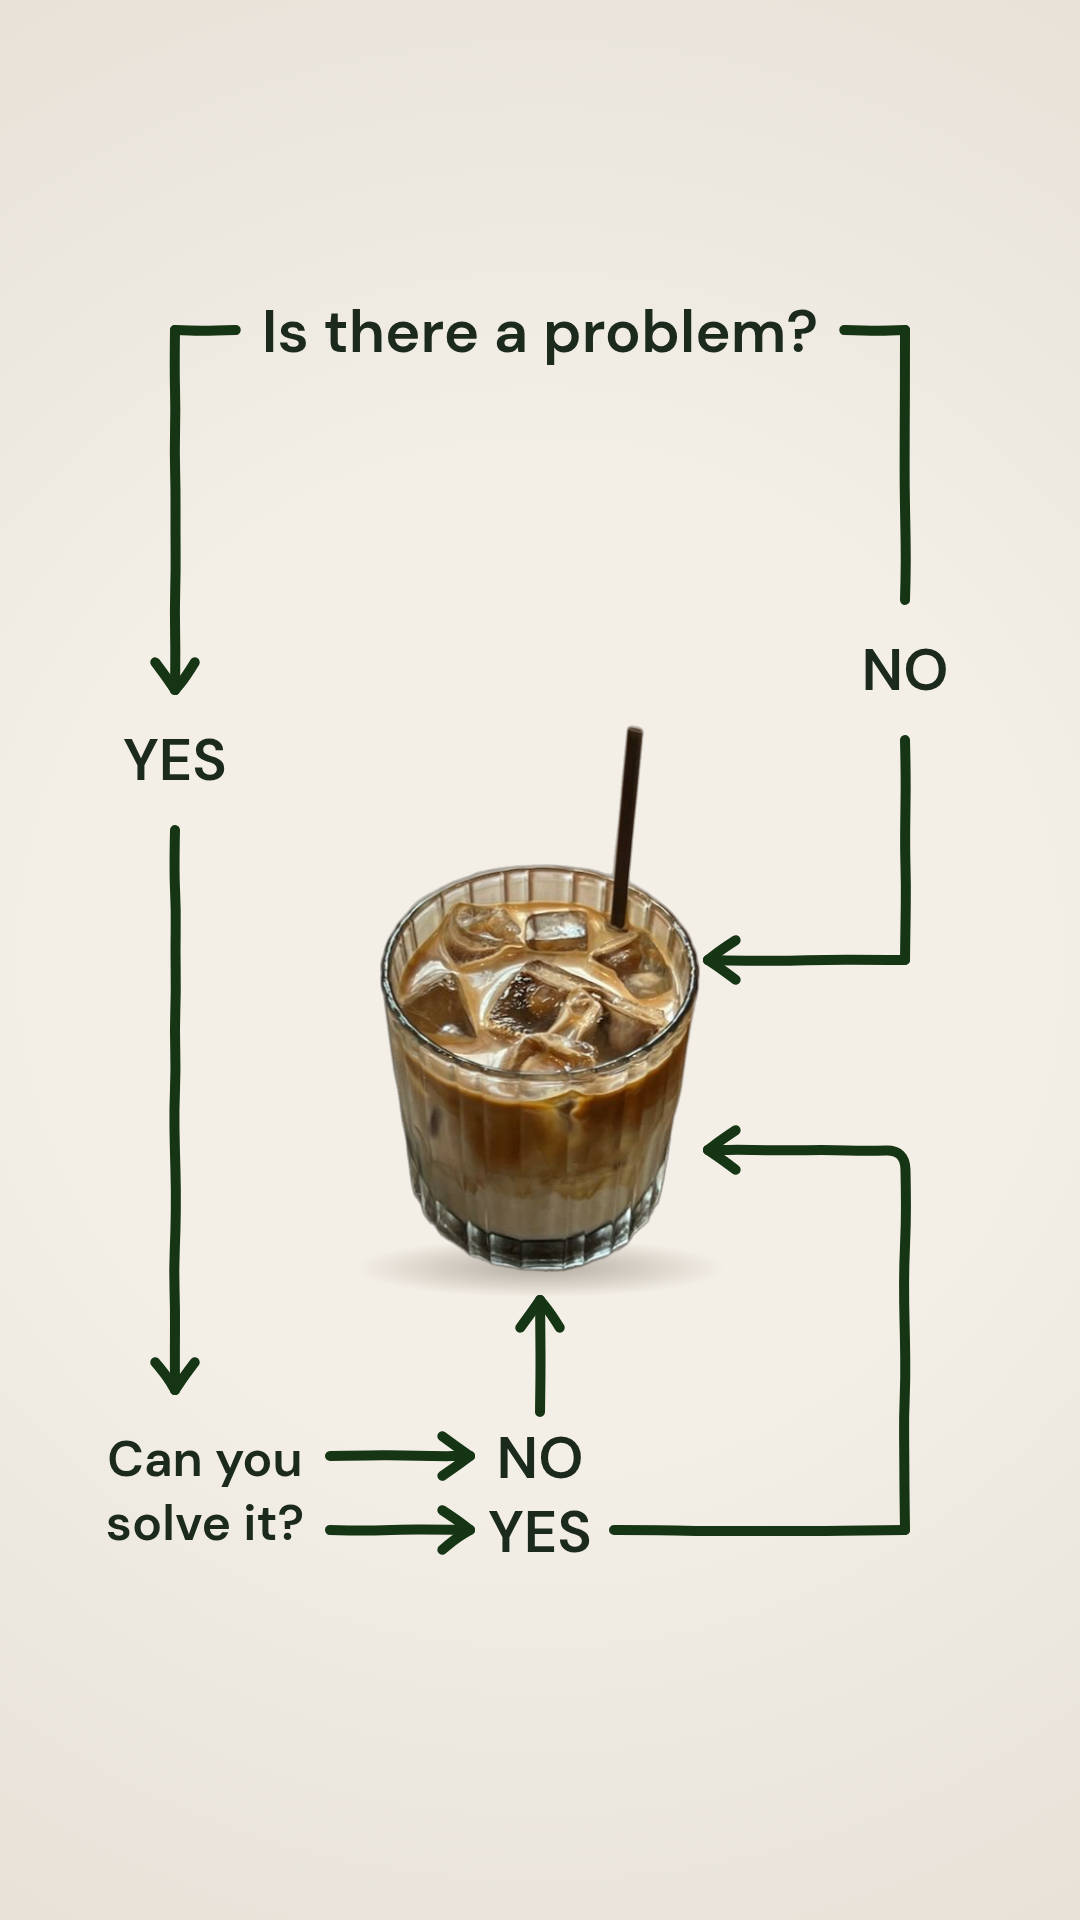
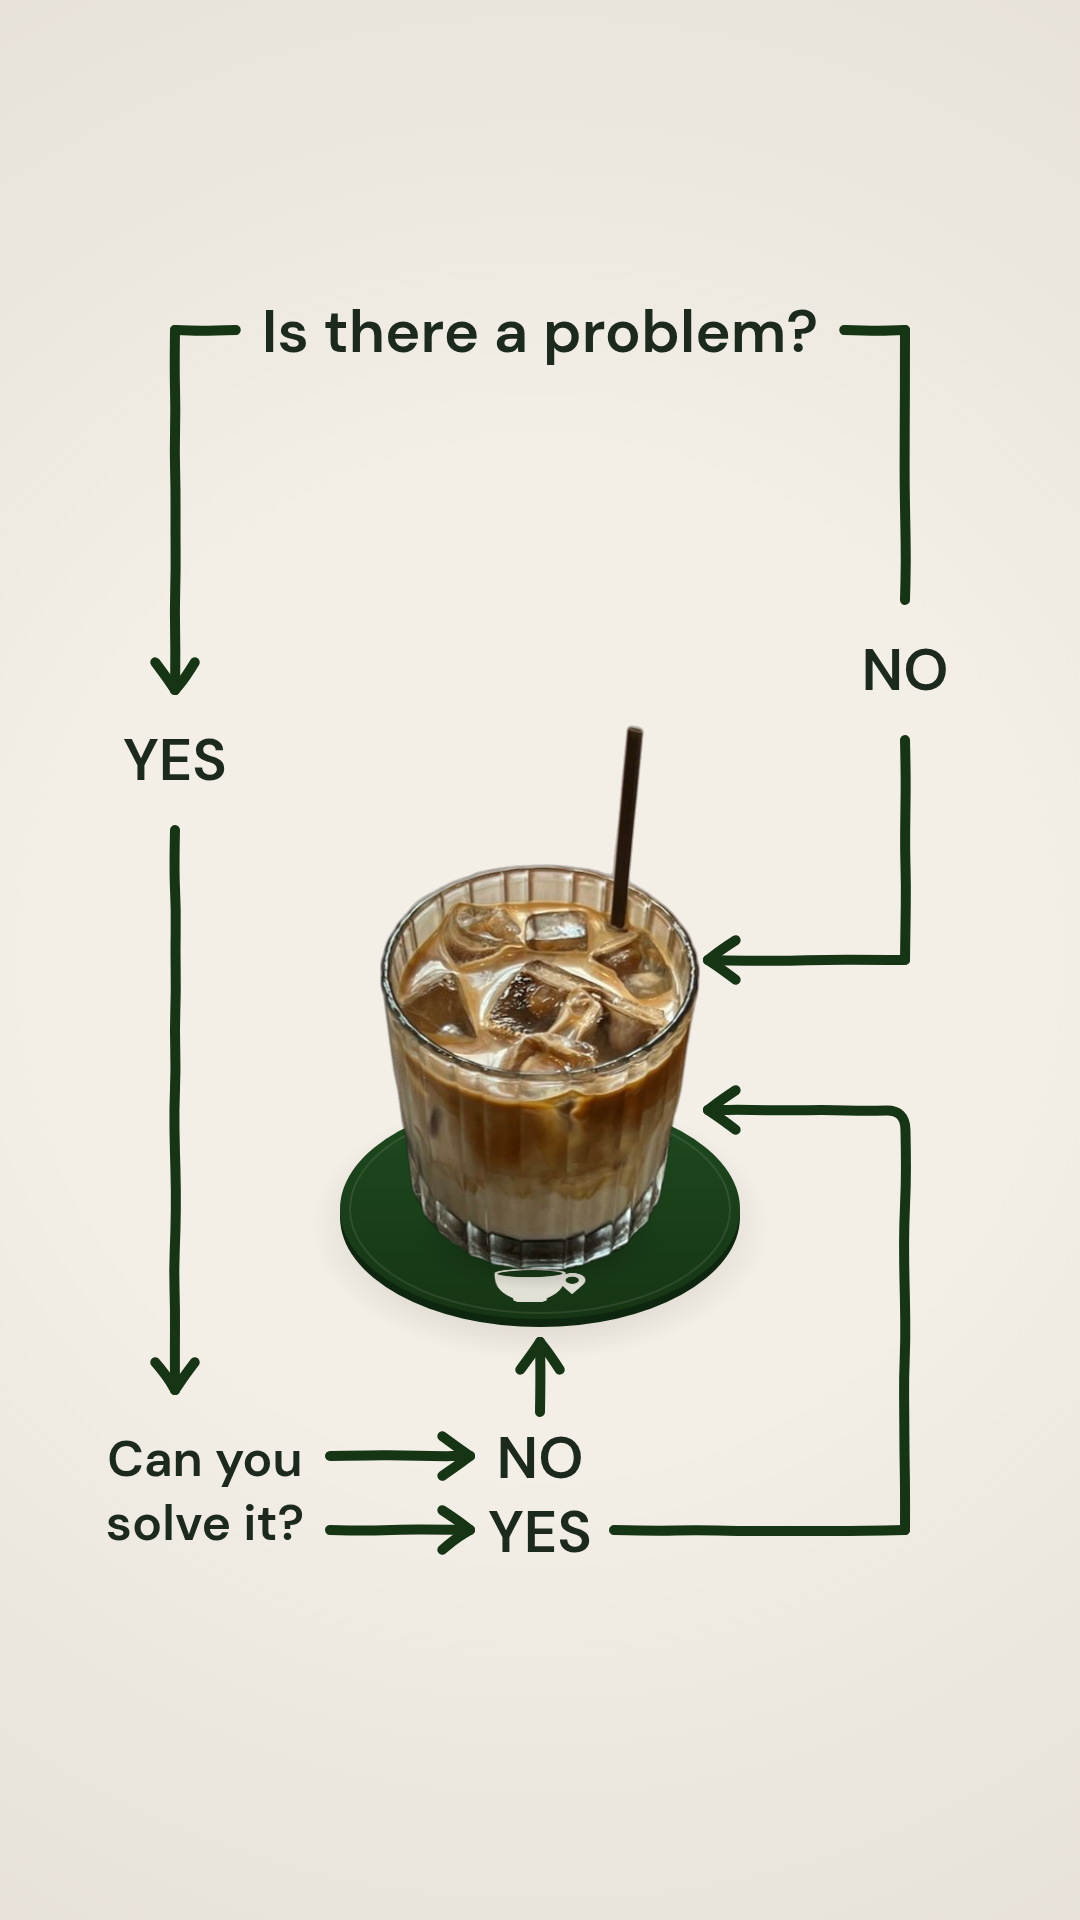
Flowchart story: BrewMaps coaster under the glass (Arabic and English)
Claude-Session: https://claude.ai/code/session_01UCKVHF8Bj15Neb29ir5cAN

Changed region(s): [[0.3056, 0.5625, 0.8556, 0.7188]]

diff --git a/marketing/posts/coffee-flowchart-story/story.html b/marketing/posts/coffee-flowchart-story/story.html
@@ -11,7 +11,7 @@ const img = s => new Promise(r => { const i = new Image(); i.onload = () => r(i)
 let seed = 7; const rnd = () => (seed = (seed * 16807) % 2147483647) / 2147483647;
 window.ready = (async () => {
   await Promise.all([document.fonts.load('700 62px "Tajawal"', 'عندك مشكلة'), document.fonts.load('700 64px "Tajawal"', 'إيه لا'), document.fonts.load('700 74px "Tajawal"', 'عندك مشكلة؟')]);
-  const cup = await img('img/glass-cutout.png'), logo = await img('../../assets/logos/logo-green.png');
+  const mark = await img('../../assets/logos/mark-cream.png'), cup = await img('img/glass-cutout.png'), logo = await img('../../assets/logos/logo-green.png');
   const c = document.getElementById('c').getContext('2d');
   c.fillStyle = BG; c.fillRect(0, 0, 1080, 1920);
   const v = c.createRadialGradient(540, 960, 500, 540, 960, 1250); v.addColorStop(0, 'rgba(0,0,0,0)'); v.addColorStop(1, 'rgba(60,45,20,0.08)');
@@ -42,14 +42,25 @@ window.ready = (async () => {
   hand([[175, 740], [175, 960]]); arrow([[175, 960], [372, 960]]);
   // the coffee, centred
   const cw = 320, ch = cw * cup.height / cup.width, cx = 540 - cw / 2, cy = 1272 - ch;
-  const sh = c.createRadialGradient(540, 1268, 10, 540, 1268, 185); sh.addColorStop(0, 'rgba(40,30,15,0.3)'); sh.addColorStop(1, 'rgba(40,30,15,0)');
-  c.save(); c.translate(540, 1268); c.scale(1, 0.16); c.translate(-540, -1268); c.fillStyle = sh; c.fillRect(300, 1048, 480, 440); c.restore();
+  // the BrewMaps coaster: brand green, in the photo's perspective (ellipse ≈ 0.55 of its width), the cream mark printed
+  // on the front band; the glass stands on it
+  const bx = 540, by = 1209, rx = 200, ry = 110;
+  let sh = c.createRadialGradient(bx, by + 18, 20, bx, by + 18, 230); sh.addColorStop(0, 'rgba(30,22,10,0.30)'); sh.addColorStop(1, 'rgba(30,22,10,0)');
+  c.save(); c.translate(bx, by + 18); c.scale(1, 0.58); c.translate(-bx, -(by + 18)); c.fillStyle = sh; c.fillRect(bx - 240, by - 222, 480, 480); c.restore();
+  c.fillStyle = '#0E260F'; c.beginPath(); c.ellipse(bx, by + 8, rx, ry, 0, 0, Math.PI * 2); c.fill();          // the coaster's edge
+  let cg = c.createLinearGradient(0, by - ry, 0, by + ry); cg.addColorStop(0, '#1E4A1F'); cg.addColorStop(1, '#163514');
+  c.fillStyle = cg; c.beginPath(); c.ellipse(bx, by, rx, ry, 0, 0, Math.PI * 2); c.fill();                     // its top
+  c.save(); c.strokeStyle = 'rgba(244,239,230,0.10)'; c.lineWidth = 2; c.beginPath(); c.ellipse(bx, by, rx - 10, ry - 6, 0, 0, Math.PI * 2); c.stroke(); c.restore();
+  const mw = 92, mh = mw * mark.height / mark.width;
+  c.save(); c.translate(bx, by + 76); c.scale(1, 0.55); c.globalAlpha = 0.92; c.drawImage(mark, -mw / 2, -mh / 2, mw, mh); c.restore();   // the mark, lying flat on the front
+  const cs = c.createRadialGradient(bx, 1240, 5, bx, 1240, 125); cs.addColorStop(0, 'rgba(0,0,0,0.35)'); cs.addColorStop(1, 'rgba(0,0,0,0)');   // where the glass meets the coaster
+  c.save(); c.translate(bx, 1240); c.scale(1, 0.4); c.translate(-bx, -1240); c.fillStyle = cs; c.fillRect(bx - 130, 1110, 260, 260); c.restore();
   c.drawImage(cup, cx, cy, cw, ch);
   // from "تقدر تحلها؟": two arrows into the centred column لا / إيه
   arrow([[762, 1456], [605, 1456]]); arrow([[762, 1530], [605, 1530]]);
   ar('لا', 540, 1478, 64); ar('إيه', 540, 1552, 64);
-  arrow([[540, 1412], [540, 1300]]);                                   // لا → straight up into the middle of the glass
-  hand([[482, 1530], [175, 1530]]); arrow([[175, 1530], [175, 1150], [372, 1150]]);   // إيه → the long way round, still into the coffee
+  arrow([[540, 1412], [540, 1342]]);                                   // لا → straight up into the middle of the glass
+  hand([[482, 1530], [175, 1530]]); arrow([[175, 1530], [175, 1110], [372, 1110]]);   // إيه → the long way round, still into the coffee
   // v2: no logo at the foot; the line at the top says it
 })();
 window.png = () => document.getElementById('c').toDataURL('image/png');

diff --git a/marketing/posts/coffee-flowchart-story/story-en.html b/marketing/posts/coffee-flowchart-story/story-en.html
@@ -11,7 +11,7 @@ const img = s => new Promise(r => { const i = new Image(); i.onload = () => r(i)
 let seed = 7; const rnd = () => (seed = (seed * 16807) % 2147483647) / 2147483647;
 window.ready = (async () => {
   await Promise.all([document.fonts.load('600 60px "DM Sans"', 'Is there a problem? YES NO Can you solve it?')]);
-  const cup = await img('img/glass-cutout.png'), logo = await img('../../assets/logos/logo-green.png');
+  const mark = await img('../../assets/logos/mark-cream.png'), cup = await img('img/glass-cutout.png'), logo = await img('../../assets/logos/logo-green.png');
   const c = document.getElementById('c').getContext('2d');
   c.fillStyle = BG; c.fillRect(0, 0, 1080, 1920);
   const v = c.createRadialGradient(540, 960, 500, 540, 960, 1250); v.addColorStop(0, 'rgba(0,0,0,0)'); v.addColorStop(1, 'rgba(60,45,20,0.08)');
@@ -43,14 +43,25 @@ window.ready = (async () => {
   hand([[905, 740], [905, 960]]); arrow([[905, 960], [708, 960]]);
   // the coffee, centred
   const cw = 320, ch = cw * cup.height / cup.width, cx = 540 - cw / 2, cy = 1272 - ch;
-  const sh = c.createRadialGradient(540, 1268, 10, 540, 1268, 185); sh.addColorStop(0, 'rgba(40,30,15,0.3)'); sh.addColorStop(1, 'rgba(40,30,15,0)');
-  c.save(); c.translate(540, 1268); c.scale(1, 0.16); c.translate(-540, -1268); c.fillStyle = sh; c.fillRect(300, 1048, 480, 440); c.restore();
+  // the BrewMaps coaster: brand green, in the photo's perspective (ellipse ≈ 0.55 of its width), the cream mark printed
+  // on the front band; the glass stands on it
+  const bx = 540, by = 1209, rx = 200, ry = 110;
+  let sh = c.createRadialGradient(bx, by + 18, 20, bx, by + 18, 230); sh.addColorStop(0, 'rgba(30,22,10,0.30)'); sh.addColorStop(1, 'rgba(30,22,10,0)');
+  c.save(); c.translate(bx, by + 18); c.scale(1, 0.58); c.translate(-bx, -(by + 18)); c.fillStyle = sh; c.fillRect(bx - 240, by - 222, 480, 480); c.restore();
+  c.fillStyle = '#0E260F'; c.beginPath(); c.ellipse(bx, by + 8, rx, ry, 0, 0, Math.PI * 2); c.fill();          // the coaster's edge
+  let cg = c.createLinearGradient(0, by - ry, 0, by + ry); cg.addColorStop(0, '#1E4A1F'); cg.addColorStop(1, '#163514');
+  c.fillStyle = cg; c.beginPath(); c.ellipse(bx, by, rx, ry, 0, 0, Math.PI * 2); c.fill();                     // its top
+  c.save(); c.strokeStyle = 'rgba(244,239,230,0.10)'; c.lineWidth = 2; c.beginPath(); c.ellipse(bx, by, rx - 10, ry - 6, 0, 0, Math.PI * 2); c.stroke(); c.restore();
+  const mw = 92, mh = mw * mark.height / mark.width;
+  c.save(); c.translate(bx, by + 76); c.scale(1, 0.55); c.globalAlpha = 0.92; c.drawImage(mark, -mw / 2, -mh / 2, mw, mh); c.restore();   // the mark, lying flat on the front
+  const cs = c.createRadialGradient(bx, 1240, 5, bx, 1240, 125); cs.addColorStop(0, 'rgba(0,0,0,0.35)'); cs.addColorStop(1, 'rgba(0,0,0,0)');   // where the glass meets the coaster
+  c.save(); c.translate(bx, 1240); c.scale(1, 0.4); c.translate(-bx, -1240); c.fillStyle = cs; c.fillRect(bx - 130, 1110, 260, 260); c.restore();
   c.drawImage(cup, cx, cy, cw, ch);
   // from "Can you solve it?": two arrows into the centred column NO / YES
   arrow([[330, 1456], [470, 1456]]); arrow([[330, 1530], [470, 1530]]);
   en('NO', 540, 1478, 58); en('YES', 540, 1552, 58);
-  arrow([[540, 1412], [540, 1300]]);                                   // NO → straight up into the middle of the glass
-  hand([[614, 1530], [905, 1530]]); arrow([[905, 1530], [905, 1150], [708, 1150]]);   // YES → the long way round, still into the coffee
+  arrow([[540, 1412], [540, 1342]]);                                   // NO → straight up into the middle of the glass
+  hand([[614, 1530], [905, 1530]]); arrow([[905, 1530], [905, 1110], [708, 1110]]);   // YES → the long way round, still into the coffee
   // v2: no logo at the foot; the line at the top says it
 })();
 window.png = () => document.getElementById('c').toDataURL('image/png');

diff --git a/marketing/posts/coffee-flowchart-story/README.md b/marketing/posts/coffee-flowchart-story/README.md
@@ -11,3 +11,7 @@ Re-render: `node render.js export/story-coffee-flowchart.png story.html`.
 ## English version — `export/story-coffee-flowchart-en.png`
 
 `story-en.html`: the same layout mirrored to read left to right (Is there a problem? → YES → Can you solve it? → NO / YES; NO → the coffee), in DM Sans. Re-render: `node render.js export/story-coffee-flowchart-en.png story-en.html`.
+
+## BrewMaps touch
+
+The glass stands on a BrewMaps coaster: brand green, drawn in the photo's perspective, the cream cup-and-pin mark printed flat on its front band (both versions).
